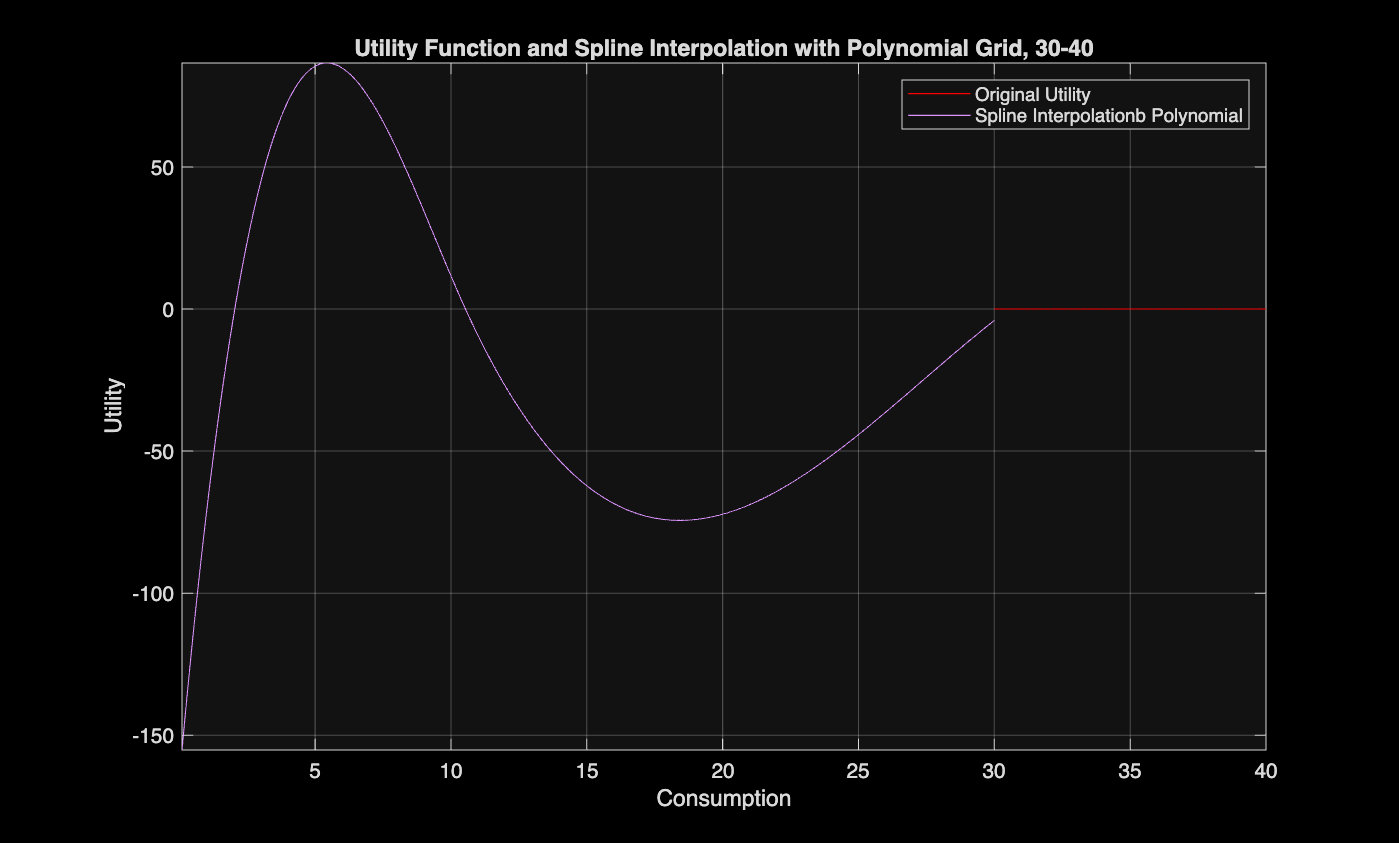
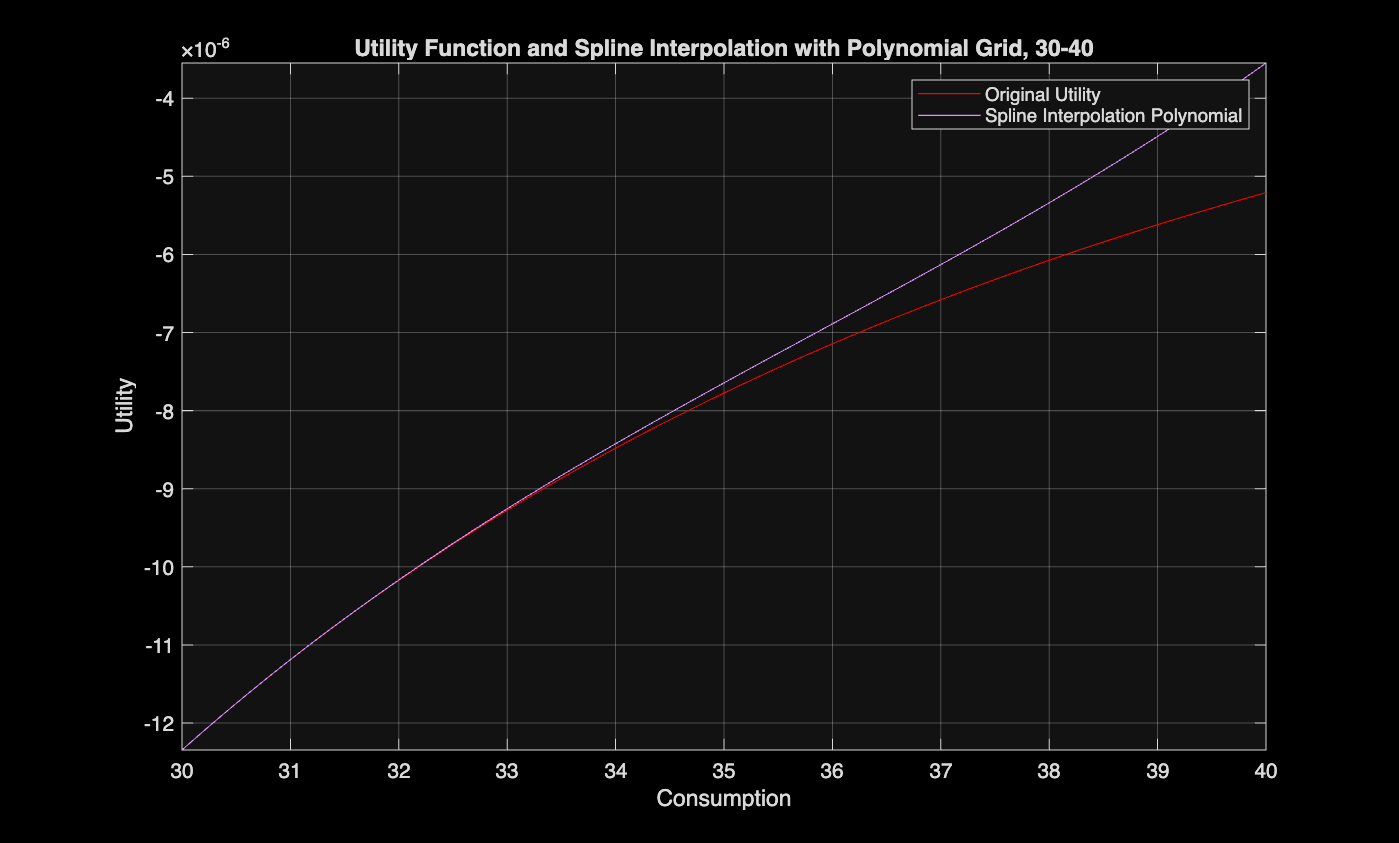
finished?
fixed graphs, need write up

diff --git a/PS1_Bergeron/PS1_Q2.m b/PS1_Bergeron/PS1_Q2.m
@@ -51,11 +51,17 @@ grid on;
 saveas(gcf,'spline_interpolation.fig')
 saveas(gcf,'spline_interpolation.png')
 
-%% Part 2: Polynomial grid
+%% Part 3: Polynomial grid
+
+% function to create polynomial grid
+function c_grid_poly = polynomial_grid(point_a, point_b, nodes, curve)
+    c_grid_normalized = linspace(0, 1, nodes); % normalized grid in [0,1]
+    c_grid_poly = point_a + (point_b - point_a) * c_grid_normalized.^curve; % polynomial transformation
+end
 
 % creating polynomilial grid for consumption
 curve = 3; % curvature parameter for polynomial grid
-c_grid_poly = 0.1 + (30-0.1)* c_grid.^curve; % polynomial grid transformation
+c_grid_poly = polynomial_grid(0.1, 30, 1000, curve); % polynomial grid transformation
 disp('Polynomial consumption grid:');
 disp(c_grid_poly(1:10));    
 
@@ -74,12 +80,20 @@ error_poly = abs(u_original_poly - u_interp_poly); % absolute error between orig
 disp('Maximum error between original and interpolated utility values:');
 disp(max(error_poly));
 
+%% Part 4: Plotting
+
+% making new consumption grid to plot, with 100 nodes
+c_grid_plot = linspace(30, 40, 100); % new consumption grid for plotting
+u_grid_plot = crra_utility(c_grid_plot, gamma); % original utility values at the new grid for plotting
+u_interp_plot = ppval(spline_interp_poly, c_grid_plot); % interpolated utility
+
 % Plotting the original utility values and the new interpolated values
 figure;
 fplot(@(x) crra_utility(x, gamma), [30, 40], 'r-', 'DisplayName', 'Original Utility'); % original utility function
 hold on;
-plot(c_grid_interp_poly, u_interp_poly, 'b-', ...
-    'DisplayName', 'Spline Interpolationb Polynomial', Color='#DC94FF'); % spline interpolation   
+plot(c_grid_plot, u_interp_plot, 'b-', ...
+    'DisplayName', 'Spline Interpolation Polynomial', Color='#DC94FF'); % spline interpolation   
+xlim([30 40])
 xlabel('Consumption');
 ylabel('Utility');
 title('Utility Function and Spline Interpolation with Polynomial Grid, 30-40');
@@ -88,12 +102,20 @@ grid on;
 saveas(gcf,'spline_interpolation_poly1.png')
 saveas(gcf,'spline_interpolation_poly.fig')
 
+
+% making new gridpoint
+c_grid_plot = linspace(0.01, 0.1, 100); % new consumption grid for plotting
+u_grid_plot = crra_utility(c_grid_plot, gamma); % original utility values at the new grid for plotting
+u_interp_plot = ppval(spline_interp_poly, c_grid_plot); % interpolated utility values at the new grid for plotting
+
+
 % Plotting the original utility values and the new interpolated values
 figure;
 fplot(@(x) crra_utility(x, gamma), [0.01, 0.1], 'r-', 'DisplayName', 'Original Utility'); % original utility function
 hold on;
-plot(c_grid_interp_poly, u_interp_poly, 'b-', ...
-    'DisplayName', 'Spline Interpolationb Polynomial', Color='#DC94FF'); % spline interpolation   
+plot(c_grid_plot, u_interp_plot, 'b-', ...
+    'DisplayName', 'Spline Interpolation Polynomial', Color='#DC94FF'); % spline interpolation   
+xlim([0.01 0.1])
 xlabel('Consumption');
 ylabel('Utility');
 title('Utility Function and Spline Interpolation with Polynomial Grid, 0.01-0.1');
